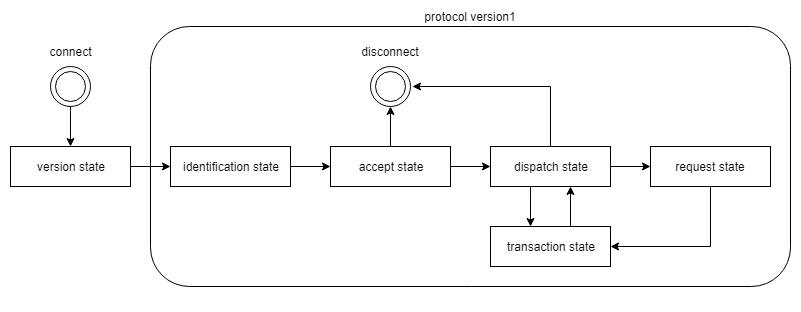
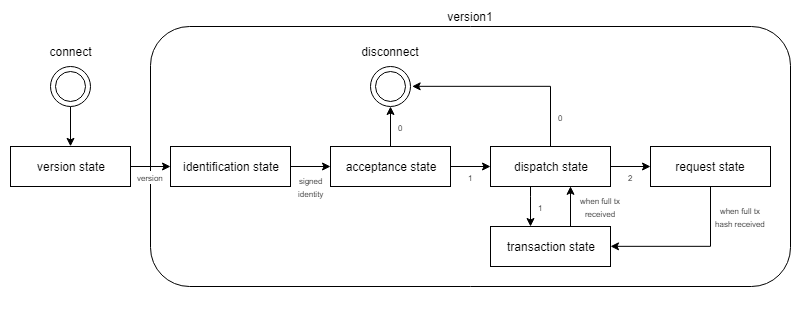
Refactor: refactored gossip module

diff --git a/plugins/gossip/protocol_v1.go b/plugins/gossip/protocol_v1.go
@@ -26,13 +26,13 @@ func (state *indentificationStateV1) Consume(protocol *protocol, data []byte, of
 
     state.offset += bytesRead
     if state.offset == MARSHALLED_NEIGHBOR_TOTAL_SIZE {
-        if unmarshalledNeighbor, err := UnmarshalNeighbor(state.buffer); err != nil {
+        if unmarshalledNeighbor, err := UnmarshalPeer(state.buffer); err != nil {
             return bytesRead, ErrInvalidAuthenticationMessage.Derive(err, "invalid authentication message")
         } else {
             protocol.neighbor.Identity = unmarshalledNeighbor.Identity
             protocol.neighbor.Port = unmarshalledNeighbor.Port
 
-            Events.ReceiveIdentification.Trigger(protocol.neighbor)
+            protocol.Events.ReceiveIdentification.Trigger(protocol.neighbor)
 
             protocol.currentState = newacceptanceStateV1()
             state.offset = 0
@@ -54,17 +54,17 @@ func newacceptanceStateV1() *acceptanceStateV1 {
 
 func (state *acceptanceStateV1) Consume(protocol *protocol, data []byte, offset int, length int) (int, errors.IdentifiableError) {
     switch data[offset] {
-        case 1:
-            Events.AcceptConnection.Trigger()
-
-            protocol.currentState = newDispatchStateV1()
-        break
-
-        case 2:
-            Events.RejectConnection.Trigger()
+        case 0:
+            protocol.Events.RejectConnection.Trigger()
 
             protocol.neighbor.Conn.Close()
             protocol.currentState = nil
+        break
+
+        case 1:
+            protocol.Events.AcceptConnection.Trigger()
+
+            protocol.currentState = newDispatchStateV1()
         break
 
         default:
@@ -87,7 +87,7 @@ func newDispatchStateV1() *dispatchStateV1 {
 func (state *dispatchStateV1) Consume(protocol *protocol, data []byte, offset int, length int) (int, errors.IdentifiableError) {
     switch data[0] {
         case 0:
-            Events.RejectConnection.Trigger()
+            protocol.Events.RejectConnection.Trigger()
 
             protocol.neighbor.Conn.Close()
             protocol.currentState = nil
@@ -130,7 +130,7 @@ func (state *transactionStateV1) Consume(protocol *protocol, data []byte, offset
         transactionData := make([]byte, transaction.MARSHALLED_TOTAL_SIZE)
         copy(transactionData, state.buffer)
 
-        Events.ReceiveTransactionData.Trigger(transactionData)
+        protocol.Events.ReceiveTransactionData.Trigger(transactionData)
 
         go func() {
             Events.ReceiveTransaction.Trigger(transaction.FromBytes(transactionData))

diff --git a/plugins/gossip/events.go b/plugins/gossip/events.go
@@ -6,9 +6,10 @@ import (
 )
 
 var Events = pluginEvents{
-    AddNeighbor:        events.NewEvent(errorCaller),
-    RemoveNeighbor:     events.NewEvent(errorCaller),
-    DropNeighbor:       events.NewEvent(errorCaller),
+    AddNeighbor:        events.NewEvent(neighborCaller),
+    UpdateNeighbor:     events.NewEvent(neighborCaller),
+    RemoveNeighbor:     events.NewEvent(neighborCaller),
+    DropNeighbor:       events.NewEvent(neighborCaller),
     IncomingConnection: events.NewEvent(errorCaller),
     ReceiveTransaction: events.NewEvent(transactionCaller),
     Error:              events.NewEvent(errorCaller),
@@ -17,13 +18,14 @@ var Events = pluginEvents{
 type pluginEvents struct {
     // neighbor events
     AddNeighbor    *events.Event
+    UpdateNeighbor *events.Event
     RemoveNeighbor *events.Event
-    DropNeighbor   *events.Event
 
     // low level network events
     IncomingConnection *events.Event
 
     // high level protocol events
+    DropNeighbor              *events.Event
     SendTransaction           *events.Event
     SendTransactionRequest    *events.Event
     ReceiveTransaction        *events.Event
@@ -33,12 +35,6 @@ type pluginEvents struct {
     // generic events
     Error *events.Event
 }
-
-func intCaller(handler interface{}, params ...interface{}) { handler.(func(int))(params[0].(int)) }
-
-func errorCaller(handler interface{}, params ...interface{}) { handler.(func(error))(params[0].(error)) }
-
-func transactionCaller(handler interface{}, params ...interface{}) { handler.(func(*transaction.Transaction))(params[0].(*transaction.Transaction)) }
 
 type protocolEvents struct {
     ReceiveVersion         *events.Event
@@ -50,3 +46,11 @@ type protocolEvents struct {
     ReceiveRequestData     *events.Event
     Error                  *events.Event
 }
+
+func intCaller(handler interface{}, params ...interface{}) { handler.(func(int))(params[0].(int)) }
+
+func neighborCaller(handler interface{}, params ...interface{}) { handler.(func(*Peer))(params[0].(*Peer)) }
+
+func errorCaller(handler interface{}, params ...interface{}) { handler.(func(error))(params[0].(error)) }
+
+func transactionCaller(handler interface{}, params ...interface{}) { handler.(func(*transaction.Transaction))(params[0].(*transaction.Transaction)) }

diff --git a/plugins/gossip/protocol.go b/plugins/gossip/protocol.go
@@ -2,26 +2,31 @@ package gossip
 
 import (
     "github.com/iotaledger/goshimmer/packages/errors"
+    "github.com/iotaledger/goshimmer/packages/events"
     "strconv"
 )
 
-//region interfaces ////////////////////////////////////////////////////////////////////////////////////////////////////
+// region interfaces ///////////////////////////////////////////////////////////////////////////////////////////////////
 
 type protocolState interface {
     Consume(protocol *protocol, data []byte, offset int, length int) (int, errors.IdentifiableError)
 }
 
-//endregion ////////////////////////////////////////////////////////////////////////////////////////////////////////////
+// endregion ////////////////////////////////////////////////////////////////////////////////////////////////////////////
 
 // region protocol /////////////////////////////////////////////////////////////////////////////////////////////////////
 
 type protocol struct {
-    neighbor     *Neighbor
+    Events       protocolEvents
+    neighbor     *Peer
     currentState protocolState
 }
 
-func newProtocol(neighbor *Neighbor) *protocol {
+func newProtocol(neighbor *Peer) *protocol {
     protocol := &protocol{
+        Events: protocolEvents{
+            ReceiveVersion: events.NewEvent(intCaller),
+        },
         neighbor:     neighbor,
         currentState: &versionState{},
     }
@@ -47,14 +52,14 @@ func (protocol *protocol) parseData(data []byte) {
 
 // endregion ////////////////////////////////////////////////////////////////////////////////////////////////////////////
 
-// region versionState //////////////////////////////////////////////////////////////////////////////////////////////////
+// region versionState /////////////////////////////////////////////////////////////////////////////////////////////////
 
 type versionState struct{}
 
 func (state *versionState) Consume(protocol *protocol, data []byte, offset int, length int) (int, errors.IdentifiableError) {
     switch data[offset] {
     case 1:
-        Events.ReceiveVersion.Trigger(1)
+        protocol.Events.ReceiveVersion.Trigger(1)
 
         protocol.currentState = newIndentificationStateV1()
 

diff --git a/plugins/gossip/neighbors.go b/plugins/gossip/neighbors.go
@@ -1,0 +1,86 @@
+package gossip
+
+import (
+    "github.com/iotaledger/goshimmer/packages/identity"
+    "github.com/iotaledger/goshimmer/packages/network"
+    "net"
+    "sync"
+)
+
+type Peer struct {
+    Identity identity.Identity
+    Address  net.IP
+    Port     uint16
+    Conn     *network.ManagedConnection
+}
+
+func UnmarshalPeer(data []byte) (*Peer, error) {
+    return &Peer{}, nil
+}
+
+func (peer *Peer) Marshal() []byte {
+    return nil
+}
+
+func (peer *Peer) Equals(other *Peer) bool {
+    return peer.Identity.StringIdentifier == peer.Identity.StringIdentifier &&
+        peer.Port == other.Port && peer.Address.String() == other.Address.String()
+}
+
+func AddNeighbor(newNeighbor *Peer) {
+    neighborLock.Lock()
+    defer neighborLock.Lock()
+
+    if neighbor, exists := neighbors[newNeighbor.Identity.StringIdentifier]; !exists {
+        neighbors[newNeighbor.Identity.StringIdentifier] = newNeighbor
+
+        Events.AddNeighbor.Trigger(newNeighbor)
+    } else {
+        if !newNeighbor.Equals(neighbor) {
+            neighbor.Identity = neighbor.Identity
+            neighbor.Port = neighbor.Port
+            neighbor.Address = neighbor.Address
+
+            Events.UpdateNeighbor.Trigger(newNeighbor)
+        }
+    }
+}
+
+func RemoveNeighbor(identifier string) {
+    neighborLock.Lock()
+    defer neighborLock.Lock()
+
+    if neighbor, exists := neighbors[identifier]; exists {
+        delete(neighbors, identifier)
+
+        Events.RemoveNeighbor.Trigger(neighbor)
+    }
+}
+
+func GetNeighbor(neighbor *Peer) (*Peer, bool) {
+    neighborLock.RLock()
+    defer neighborLock.RUnlock()
+
+    neighbor, exists := neighbors[neighbor.Identity.StringIdentifier]
+
+    return neighbor, exists
+}
+
+func GetNeighbors() map[string]*Peer {
+    neighborLock.RLock()
+    defer neighborLock.RUnlock()
+
+    result := make(map[string]*Peer)
+    for id, neighbor := range neighbors {
+        result[id] = neighbor
+    }
+
+    return result
+}
+
+const (
+    MARSHALLED_NEIGHBOR_TOTAL_SIZE = 1
+)
+
+var neighbors = make(map[string]*Peer)
+var neighborLock sync.RWMutex

diff --git a/plugins/gossip/server.go b/plugins/gossip/server.go
@@ -14,7 +14,7 @@ var TCPServer = tcp.NewServer()
 
 func configureServer(plugin *node.Plugin) {
     TCPServer.Events.Connect.Attach(events.NewClosure(func(conn *network.ManagedConnection) {
-        neighbor := &Neighbor{
+        neighbor := &Peer{
             Address: conn.RemoteAddr().(*net.TCPAddr).IP,
         }
 
